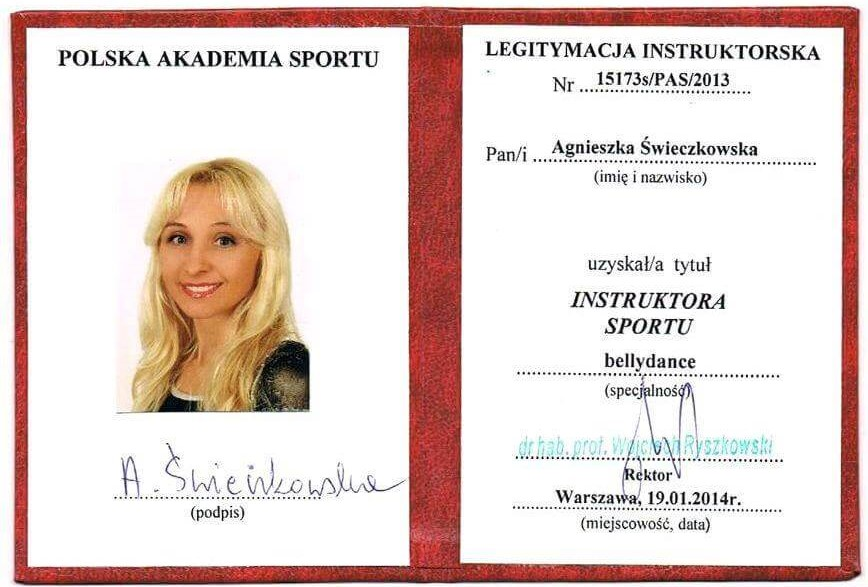
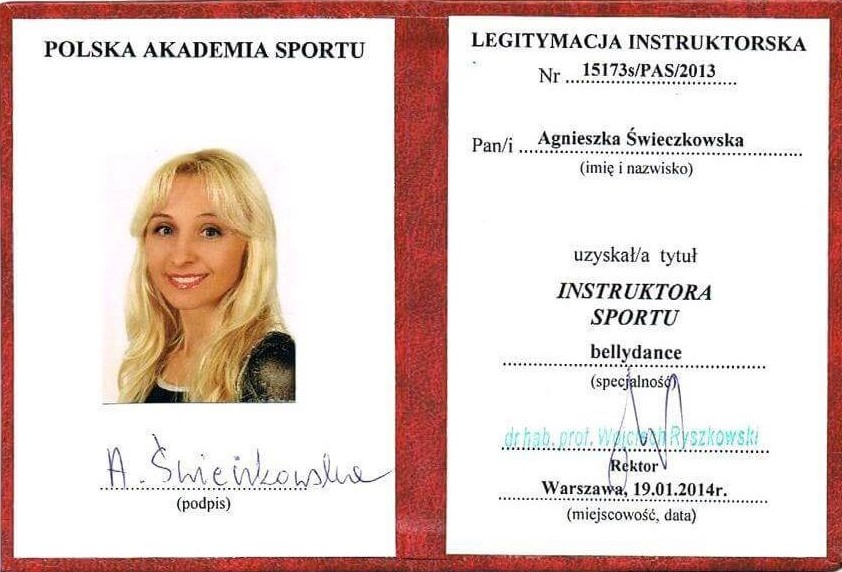
Added first section for homepage

Changed region(s): [[0.0, 0.0, 1.0, 1.0], [0.5867, 0.4161, 0.9264, 0.9213], [0.1235, 0.2378, 0.3705, 0.7133]]

diff --git a/src/pages/index.jsx b/src/pages/index.jsx
@@ -7,7 +7,14 @@ import Heading from 'components/heading/heading';
 import ContentWrapper from 'components/ContentWrapper/ContentWrapper';
 import { firstSection, secondSection, thirdSection } from 'data/indexData';
 
-import { StyledBgImage, StyledPyramid } from './index.styles';
+import {
+    StyledBgImage,
+    StyledPyramid,
+    StyledFirstSection,
+    StyledDarken,
+    StyledBgTitle,
+    StyledFirstSectionImg,
+} from './index.styles';
 
 const IndexPage = () => {
     const { placeholderImage } = useStaticQuery(
@@ -17,11 +24,7 @@ const IndexPage = () => {
                     relativePath: { eq: "Homepage/homepageBaner.jpg" }
                 ) {
                     childImageSharp {
-                        gatsbyImageData(
-                            width: 2000
-                            placeholder: BLURRED
-                            formats: WEBP
-                        )
+                        gatsbyImageData(placeholder: BLURRED, formats: WEBP)
                     }
                 }
             }
@@ -32,7 +35,8 @@ const IndexPage = () => {
     return (
         <main>
             <StyledBgImage image={pluginImage}>
-                <div>
+                <StyledDarken />
+                <StyledBgTitle>
                     <h1>Magiczny Świat Orientu</h1>
                     <p>Zapraszam do baśni 1000 i jednej nocy</p>
                     <StaticImage
@@ -41,7 +45,7 @@ const IndexPage = () => {
                         placeholder="blurred"
                         width={200}
                     />
-                </div>
+                </StyledBgTitle>
 
                 <StyledPyramid>
                     <ArrowHome />
@@ -52,17 +56,44 @@ const IndexPage = () => {
                 <section>
                     <Heading label={'O mnie'} />
 
-                    {firstSection.map(({ id, title, desc }) => (
-                        <article key={id}>
-                            <h2>{title}</h2>
-                            <p>{desc}</p>
-                        </article>
-                    ))}
+                    <StyledFirstSection>
+                        {firstSection.map(({ id, title, desc }) => (
+                            <article key={id}>
+                                <header>
+                                    <h2>{title}</h2>
+                                </header>
+                                <p>{desc}</p>
+                            </article>
+                        ))}
+                    </StyledFirstSection>
+
+                    <StyledFirstSectionImg>
+                        <StaticImage
+                            src="../assets/images/Homepage/homepage1.jpg"
+                            alt="Agnieszka Świeczkowska - legitymacja instruktora"
+                            placeholder="blurred"
+                        />
+                        <StaticImage
+                            src="../assets/images/Homepage/homepage2.jpg"
+                            alt="Agnieszka Świeczkowska - legitymacja instruktora"
+                            placeholder="blurred"
+                        />
+                    </StyledFirstSectionImg>
                 </section>
 
-                <section></section>
+                {/* <section>
+                    <Heading label={'Moje Osiągnięcia'} />
 
-                <section></section>
+					
+					<article>
+						<header>{}</header>
+						<p>{}</p>
+					</article>
+                </section>
+
+                <section>
+                    <Heading label={'Wspieram'} />
+                </section> */}
             </ContentWrapper>
         </main>
     );

diff --git a/src/pages/index.styles.jsx b/src/pages/index.styles.jsx
@@ -2,6 +2,7 @@ import styled from 'styled-components';
 import { BgImage } from 'gbimage-bridge';
 
 export const StyledBgImage = styled(BgImage)`
+    position: relative;
     height: 100vh;
     width: 100%;
     display: flex;
@@ -9,26 +10,39 @@ export const StyledBgImage = styled(BgImage)`
     align-items: center;
     justify-content: flex-end;
     row-gap: 100px;
+`;
 
-    div {
-        text-align: center;
-        color: ${({ theme }) => theme.colors.white};
+export const StyledBgTitle = styled.div`
+    position: relative;
+    text-align: center;
+    color: ${({ theme }) => theme.colors.white};
 
-        h1 {
-            font-family: ${({ theme }) => theme.fontFamily.greatVibes};
-            font-weight: 400;
-            font-size: 3.8rem;
-            /* text-shadow: 1px 1px 1px black; */
+    h1 {
+        font-family: ${({ theme }) => theme.fontFamily.greatVibes};
+        font-weight: 400;
+        font-size: 3.8rem;
+        /* text-shadow: 1px 1px 1px black; */
 
-            ${({ theme }) => theme.mq.tablet} {
-                font-size: 5.4rem;
-            }
-        }
-
-        p {
-            margin: 0 0 15px;
+        ${({ theme }) => theme.mq.tablet} {
+            font-size: 5.4rem;
         }
     }
+
+    p {
+        margin: 0 0 15px;
+    }
+`;
+
+export const StyledDarken = styled.div`
+    position: absolute;
+    width: 100%;
+    height: 100%;
+    background-color: black;
+    top: 0;
+    bottom: 0;
+    left: 0;
+    right: 0;
+    opacity: 0.1;
 `;
 
 export const StyledPyramid = styled.button`
@@ -41,4 +55,36 @@ export const StyledPyramid = styled.button`
     padding-bottom: 20px;
     clip-path: polygon(50% 0%, 0% 100%, 100% 100%);
     border: none;
+`;
+
+export const StyledFirstSection = styled.div`
+    display: grid;
+    grid-template-columns: repeat(auto-fit, minmax(250px, 1fr));
+    column-gap: 50px;
+    row-gap: 50px;
+    margin-bottom: 80px;
+
+    ${({ theme }) => theme.mq.tablet} {
+        margin-bottom: 120px;
+    }
+
+    h2 {
+        font-size: ${({ theme }) => theme.fontSize.paragraph};
+        margin-bottom: 8px;
+    }
+`;
+
+export const StyledFirstSectionImg = styled.div`
+    display: grid;
+    grid-template-columns: 1fr;
+    column-gap: 50px;
+    row-gap: 30px;
+
+    ${({ theme }) => theme.mq.tablet} {
+        grid-template-columns: 1fr 1fr;
+    }
+
+    img {
+        width: 100%;
+    }
 `;

diff --git a/src/data/indexData.jsx b/src/data/indexData.jsx
@@ -1,17 +1,21 @@
 export const firstSection = [
     {
+        id: 0,
         title: 'Uprawnienia państwowe',
         desc: 'Posiadam państwowe uprawnienia do wykonywania zawodu instruktora belly dance.',
     },
     {
+        id: 1,
         title: 'Dyplomowany instruktor',
         desc: 'Jestem dyplomowaną Instruktorką Tańca Sportowego o specjalności belly danceoraz dyplomowanym Instruktorem Sportu.',
     },
     {
+        id: 2,
         title: 'Przekazywanie wiedzy innym',
         desc: 'Nauczam różnych odmian tańca orientalnego. Zwracam uwagę na szlifowanie techniki, grację i poprawę kondycji oraz sylwetki każdej z ćwiczących pań.',
     },
     {
+        id: 3,
         title: 'Ciągły rozwój',
         desc: 'Nieustannie rozwijam swoją technikę taneczną, uczestnicząc w warsztatach prowadzonych przez wybitnych nauczycieli tańca orientalnego.',
     },
@@ -19,10 +23,12 @@ export const firstSection = [
 
 export const secondSection = [
     {
+        id: 0,
         title: 'Lorem ipsum dolor sit!',
         desc: 'Agnieszka Leyla Świeczkowska posiada państwowe uprawnienia do wykonywania zawodu instruktora belly dance. Jest dyplomowaną Instruktorką Tańca Sportowego o specjalności belly dance oraz dyplomowanym Instruktorem Sportu.',
     },
     {
+        id: 1,
         title: 'Lorem ipsum dolor sit!',
         desc: 'Agnieszka Leyla Świeczkowska posiada państwowe uprawnienia do wykonywania zawodu instruktora belly dance.',
     },
@@ -30,6 +36,7 @@ export const secondSection = [
 
 export const thirdSection = [
     {
+        id: 0,
         title: 'Lorem ipsum dolor sit!',
         desc: 'Swoją technikę taneczną nieustannie rozwijam uczestnicząc w największych festiwalach tanecznych i warsztatach prowadzonych przez wybitnych nauczycieli i żyjących legend tańca orientalnego, m.in: Lubna Emam, Kazafy.',
     },

diff --git a/src/components/Heading/Heading.styles.jsx b/src/components/Heading/Heading.styles.jsx
@@ -5,6 +5,15 @@ export const StyledHeader = styled.header`
     flex-direction: column;
     justify-content: center;
     align-items: center;
+    margin-bottom: 60px;
+
+    ${({ theme }) => theme.mq.tablet} {
+        margin-bottom: 80px;
+    }
+
+    ${({ theme }) => theme.mq.desktop} {
+        margin-bottom: 100px;
+    }
 `;
 
 export const StyledTitle = styled.h1`

diff --git a/src/components/ContentWrapper/ContentWrapper.styles.jsx b/src/components/ContentWrapper/ContentWrapper.styles.jsx
@@ -2,4 +2,12 @@ import styled from 'styled-components';
 
 export const Wrapper = styled.div`
     padding: 80px 20px;
+
+    ${({ theme }) => theme.mq.tablet} {
+        padding: 110px 40px;
+    }
+
+    ${({ theme }) => theme.mq.desktop} {
+        padding: 140px 100px;
+    }
 `;

diff --git a/src/components/Navigation/Navigation.styles.jsx b/src/components/Navigation/Navigation.styles.jsx
@@ -48,7 +48,7 @@ export const StyledLogo = styled(Link)`
         font-weight: 400;
     }
 
-    ${({ theme }) => theme.mq.desktop} {
+    ${({ theme }) => theme.mq.tablet} {
         h1 {
             font-size: ${({ theme }) => theme.fontSize.heading};
         }
